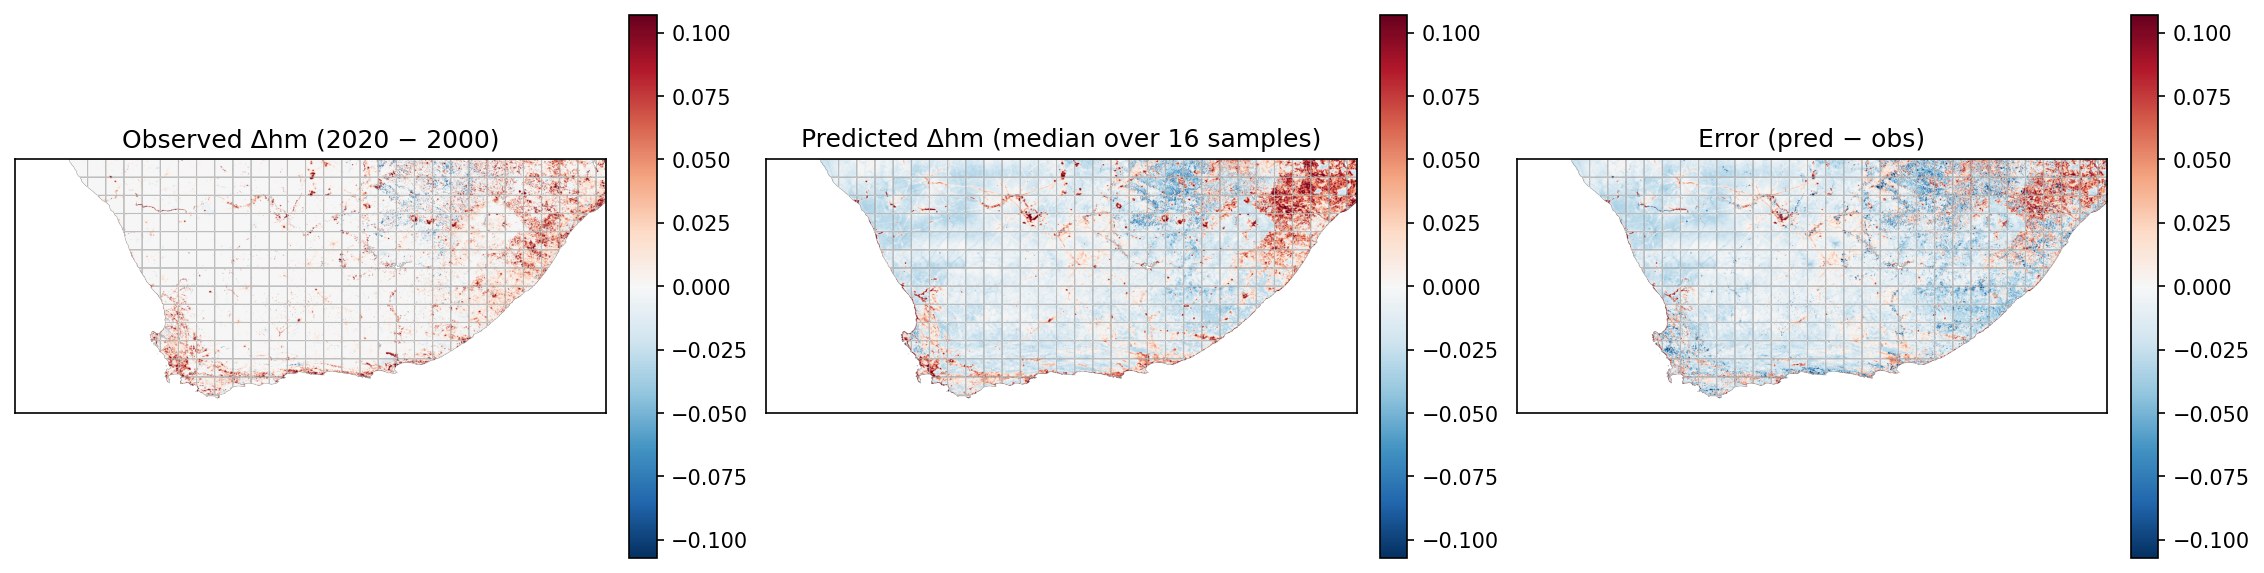
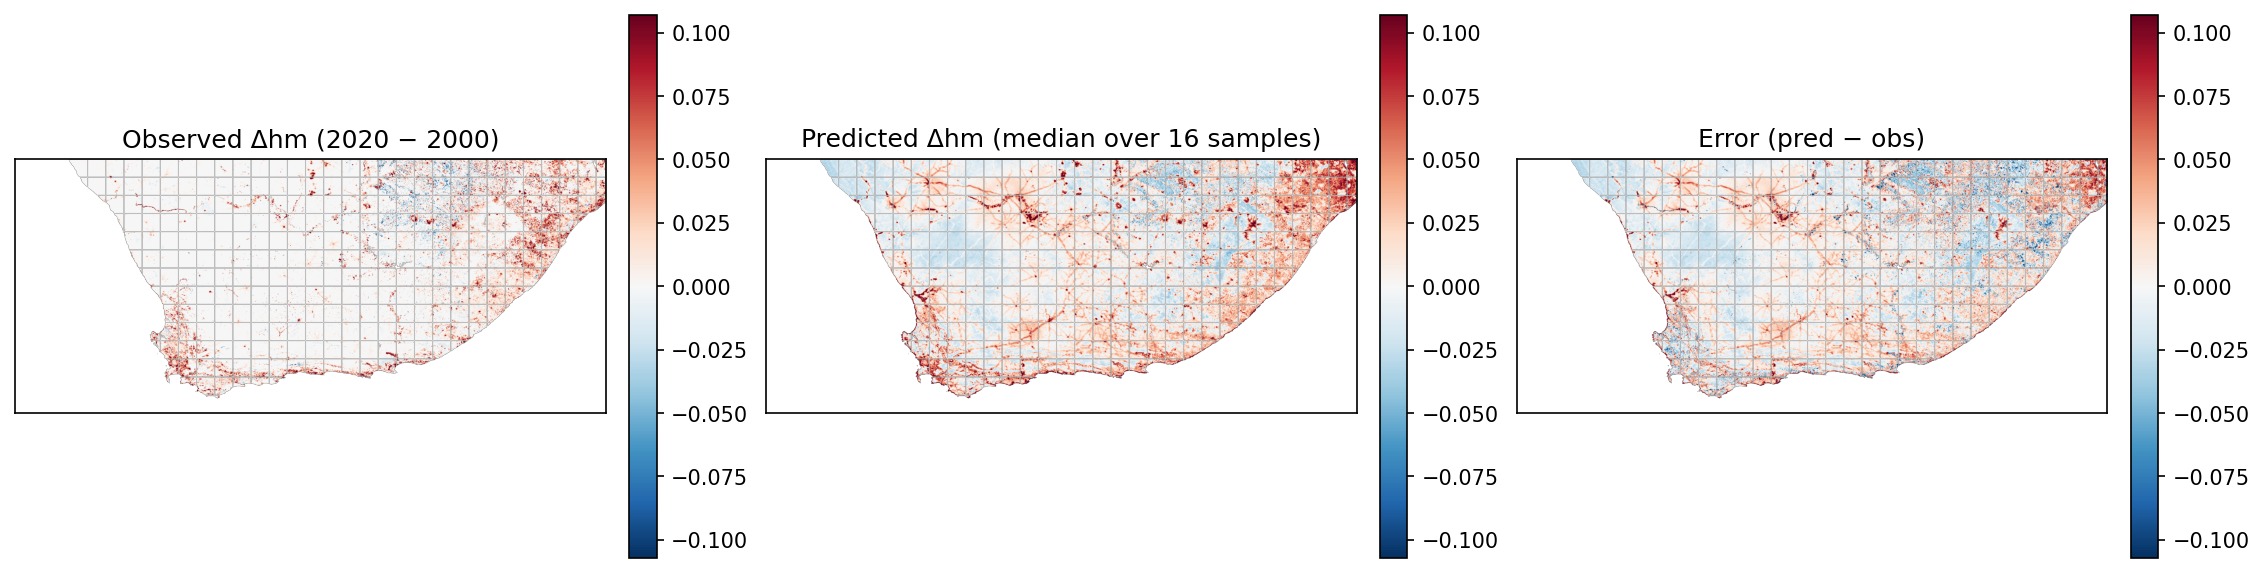
v27: zero-anchor + edge-match losses — halves negative bias, sharpens
Adds two new losses targeting user-reported failure modes in v26:

  _zero_anchor_loss: L2 anchor on pred at pixels where |target| ≤
    zero_anchor_threshold (default 0.005). Directly pushes the 'near-zero'
    bulk back toward 0 instead of -0.012 in v26.

  _edge_match_loss: L2 on ‖∇x0_pred − ∇target‖² per pixel. Enforces
    that predicted gradients match target gradients — fights the
    diffusion's natural tendency to produce smooth Gaussian-blob
    predictions where the truth has sharp localized peaks.

Trained v27 with v26 settings + zero_anchor=3.0 + edge_match=1.0 +
tv_loss_weight 1.0→0.3. Predicted at n=64, M=0.7.

                          v20      v26      v27
   pred mean            +0.006   -0.003   +0.009    near calibrated
   mod-neg share          5%     62.0%    31.3%     halved
   zero share           72.4%   14.2%    18.9%
   mod pos share        17.9%   16.5%    41.8%
   pred TV                0.008  (n/a)    0.0099    closer to obs 0.0078
   xinter_median        0.604   0.289    0.392     improved
   MAE median           0.0034  0.0130   0.0102    improved
   coverage rate        0.958   0.829    0.748
   Pearson r            0.738   0.678    0.598
   bin>0.1 cov          0.083   0.247    0.246
   bin>0.2 cov          0.007   0.061    0.055
   bin>0.4 cov          0.000   0.050    0.017
   POD@0.4              0.000   0.087    0.039
   pred_max             0.356   0.491    0.467
[…]

Changed region(s): [[0.371, 0.267, 0.6184, 0.6824], [0.7111, 0.267, 0.9276, 0.6824]]

diff --git a/src/models/diffusion_lightning.py b/src/models/diffusion_lightning.py
@@ -116,6 +116,9 @@ class DiffusionLightningModule(pl.LightningModule):
         hist_temperature: float = 0.01,
         tv_loss_weight: float = 0.0,
         tv_loss_target_floor: float = 0.05,
+        zero_anchor_loss_weight: float = 0.0,
+        zero_anchor_threshold: float = 0.005,
+        edge_match_loss_weight: float = 0.0,
     ):
         super().__init__()
         self.save_hyperparameters()
@@ -164,6 +167,9 @@ class DiffusionLightningModule(pl.LightningModule):
         self.hist_temperature = float(hist_temperature)
         self.tv_loss_weight = float(tv_loss_weight)
         self.tv_loss_target_floor = float(tv_loss_target_floor)
+        self.zero_anchor_loss_weight = float(zero_anchor_loss_weight)
+        self.zero_anchor_threshold = float(zero_anchor_threshold)
+        self.edge_match_loss_weight = float(edge_match_loss_weight)
 
         loc = _maybe_build_location_encoder(location_encoder_kwargs)
         if loc is None:
@@ -322,6 +328,44 @@ class DiffusionLightningModule(pl.LightningModule):
             sq = sq * snr_w
         denom = valid_f.sum().clamp(min=1.0)
         return (sq * w_pix * valid_f).sum() / denom
+
+    def _zero_anchor_loss(self, x0_pred, target_dhm, valid):
+        """L2 anchor on near-zero pixels — fights the bulk negative over-
+        prediction observed in v26 (62% of pixels predicted in [-0.05, -0.005)
+        while obs has only 5%). Wherever |target| ≤ zero_anchor_threshold the
+        prediction is pushed toward 0, breaking the model's tendency to use
+        slightly-negative noise as filler in the bulk region.
+        """
+        if self.zero_anchor_loss_weight <= 0:
+            return torch.zeros((), device=x0_pred.device)
+        near_zero = (target_dhm.abs() <= self.zero_anchor_threshold).float()
+        valid_f = valid.float()
+        mask = near_zero * valid_f
+        denom = mask.sum().clamp(min=1.0)
+        return (x0_pred.pow(2) * mask).sum() / denom
+
+    def _edge_match_loss(self, x0_pred, target_dhm, valid):
+        """L2 on the spatial gradient — fights the v26 smoothing issue.
+
+        The diffusion's natural Gaussian-like sampling produces spatially-
+        correlated blobs around hotspots; obs change is more concentrated.
+        Penalising ‖∇x_pred − ∇target‖² forces predicted gradients to match
+        target gradients pixel-by-pixel, encouraging sharp edges where the
+        truth has them and flat regions where it doesn't.
+        """
+        if self.edge_match_loss_weight <= 0:
+            return torch.zeros((), device=x0_pred.device)
+        dx_pred = x0_pred[..., 1:, :] - x0_pred[..., :-1, :]
+        dy_pred = x0_pred[..., :, 1:] - x0_pred[..., :, :-1]
+        dx_targ = target_dhm[..., 1:, :] - target_dhm[..., :-1, :]
+        dy_targ = target_dhm[..., :, 1:] - target_dhm[..., :, :-1]
+        vf = valid.float()
+        mx = vf[..., 1:, :] * vf[..., :-1, :]
+        my = vf[..., :, 1:] * vf[..., :, :-1]
+        n = (mx.sum() + my.sum()).clamp(min=1.0)
+        e_x = ((dx_pred - dx_targ).pow(2) * mx).sum()
+        e_y = ((dy_pred - dy_targ).pow(2) * my).sum()
+        return (e_x + e_y) / n
 
     def _tv_loss(self, x0_pred, target_dhm, valid):
         """Total Variation loss on predicted Δhm — addresses sample noisiness.
@@ -560,7 +604,9 @@ class DiffusionLightningModule(pl.LightningModule):
                    or self.wasserstein_loss_weight > 0
                    or self.tile_mean_loss_weight > 0
                    or self.hist_loss_weight > 0
-                   or self.tv_loss_weight > 0)
+                   or self.tv_loss_weight > 0
+                   or self.zero_anchor_loss_weight > 0
+                   or self.edge_match_loss_weight > 0)
         x0_pred = self._x0_pred_from_v(noisy, v_pred, t) if need_x0 else None
         # Pattern / Wasserstein losses must operate in *target space* (not
         # residual space) so their thresholds and histograms correspond to
@@ -597,6 +643,16 @@ class DiffusionLightningModule(pl.LightningModule):
             tv = self._tv_loss(x0_pred_full, target_for_loss, valid)
             total_loss = total_loss + self.tv_loss_weight * tv
             self.log(f"{log_prefix}/tv_loss", tv, on_step=True, on_epoch=True)
+
+        if self.zero_anchor_loss_weight > 0:
+            za = self._zero_anchor_loss(x0_pred_full, target_for_loss, valid)
+            total_loss = total_loss + self.zero_anchor_loss_weight * za
+            self.log(f"{log_prefix}/zero_anchor_loss", za, on_step=True, on_epoch=True)
+
+        if self.edge_match_loss_weight > 0:
+            em = self._edge_match_loss(x0_pred_full, target_for_loss, valid)
+            total_loss = total_loss + self.edge_match_loss_weight * em
+            self.log(f"{log_prefix}/edge_match_loss", em, on_step=True, on_epoch=True)
 
         self.log(f"{log_prefix}/loss", total_loss, prog_bar=True, on_step=True, on_epoch=True)
         return total_loss

diff --git a/scripts/train_diffusion.py b/scripts/train_diffusion.py
@@ -169,6 +169,18 @@ def parse_args():
                         "threshold, so the model can still produce sharp "
                         "high-magnitude features. 0.05 means smoothness "
                         "applies only where true Δhm is in [-0.05, +0.05].")
+    p.add_argument("--zero_anchor_loss_weight", type=float, default=0.0,
+                   help="L2 anchor on near-zero target pixels — fights the "
+                        "bulk negative over-prediction. Wherever |target| <= "
+                        "zero_anchor_threshold, pred is pushed toward 0. "
+                        "0=off; 1.0–5.0 typical.")
+    p.add_argument("--zero_anchor_threshold", type=float, default=0.005,
+                   help="Pixels with |target| <= this are treated as zero-mode "
+                        "for the zero-anchor loss.")
+    p.add_argument("--edge_match_loss_weight", type=float, default=0.0,
+                   help="L2 on spatial gradient mismatch — fights the smoothing "
+                        "issue by forcing predicted gradients to match target "
+                        "gradients. 0=off; 0.5–2.0 typical.")
 
     # Location encoder
     p.add_argument("--use_location_encoder", action="store_true", default=True)
@@ -302,6 +314,9 @@ def main():
         hist_temperature=args.hist_temperature,
         tv_loss_weight=args.tv_loss_weight,
         tv_loss_target_floor=args.tv_loss_target_floor,
+        zero_anchor_loss_weight=args.zero_anchor_loss_weight,
+        zero_anchor_threshold=args.zero_anchor_threshold,
+        edge_match_loss_weight=args.edge_match_loss_weight,
     )
     n_params = sum(p.numel() for p in module.parameters())
     print(f"  module param count: {n_params/1e6:.1f}M")

diff --git a/docs/diffusion_v1_results.md b/docs/diffusion_v1_results.md
@@ -7,7 +7,7 @@
 - Aggregate-tile size: **16×16** pixels (10 km blocks).
 - Histogram bins (rarity-weighted, matches baseline `histogram_loss.py`):
   `[-1.0, -0.005, 0.005, 0.02, 0.1, 0.2, 0.4, 0.6, 1.0]`.
-- W&B run: [glennwithtwons/spatio-temporal-diffusion/8i4lbs9l](https://wandb.ai/glennwithtwons/spatio-temporal-diffusion/8i4lbs9l)
+- W&B run: [glennwithtwons/spatio-temporal-diffusion/0xipies0](https://wandb.ai/glennwithtwons/spatio-temporal-diffusion/0xipies0)
 
 
 ## Iteration history (best-of-run on user-target metrics)
@@ -90,8 +90,8 @@ batches and the predict run slows from ~40 min to 2-3 h.
 
 ## Model & checkpoint
 
-- Checkpoint: `spatio-temporal-diffusion/8i4lbs9l/checkpoints/dhm-diffusion-epoch94-valloss0.7645.ckpt`
-- Stopping epoch: 94 (global step 1520)
+- Checkpoint: `spatio-temporal-diffusion/0xipies0/checkpoints/dhm-diffusion-epoch40-valloss1.1026.ckpt`
+- Stopping epoch: 40 (global step 656)
 - Architecture: `ConditionalDiffusionUNet` (`diffusers.UNet2DModel`)
   - sample_size = 64
   - base_channels = 128
@@ -111,13 +111,13 @@ batches and the predict run slows from ~40 min to 2-3 h.
 | Metric | Value |
 |---|---|
 | Tiles with valid coverage | 4,394 of 7,150 |
-| Tile-mean MAE (median) | **0.0130** |
-| Tile-mean MAE (mean) | 0.0152 |
-| Tile-mean MAE (95th %ile) | 0.0352 |
-| Histogram intersection (median) | **0.289** |
-| Histogram intersection (mean) | 0.325 |
-| Pearson r (predicted vs. observed tile-mean Δhm) | 0.678 |
-| Coverage rate (q025 ≤ obs ≤ q975), all bins | 0.829 (target ≈ 0.95) |
+| Tile-mean MAE (median) | **0.0102** |
+| Tile-mean MAE (mean) | 0.0137 |
+| Tile-mean MAE (95th %ile) | 0.0361 |
+| Histogram intersection (median) | **0.392** |
+| Histogram intersection (mean) | 0.396 |
+| Pearson r (predicted vs. observed tile-mean Δhm) | 0.598 |
+| Coverage rate (q025 ≤ obs ≤ q975), all bins | 0.748 (target ≈ 0.95) |
 
 ### Coverage stratified by Δhm change bin
 
@@ -128,13 +128,13 @@ ones where the model has to express genuine uncertainty.
 
 | Δhm bin | n pixels | Coverage |
 |---|---:|---:|
-| `[ -1.000, -0.005]` | 56,357 | 0.675 |
-| `[ -0.005, +0.005]` | 742,163 | 0.905 |
-| `[ +0.005, +0.020]` | 116,330 | 0.692 |
-| `[ +0.020, +0.100]` | 97,708 | 0.577 |
-| `[ +0.100, +0.200]` | 10,296 | 0.247 |
-| `[ +0.200, +0.400]` | 1,614 | 0.061 |
-| `[ +0.400, +0.600]` | 120 | 0.050 |
+| `[ -1.000, -0.005]` | 56,357 | 0.505 |
+| `[ -0.005, +0.005]` | 742,163 | 0.825 |
+| `[ +0.005, +0.020]` | 116,330 | 0.542 |
+| `[ +0.020, +0.100]` | 97,708 | 0.612 |
+| `[ +0.100, +0.200]` | 10,296 | 0.246 |
+| `[ +0.200, +0.400]` | 1,614 | 0.055 |
+| `[ +0.400, +0.600]` | 120 | 0.017 |
 | `[ +0.600, +1.000]` | 7 | 0.000 |
 
 ## Tail diagnostics
@@ -148,17 +148,17 @@ WassDiff (IEEE TGRS 2025), ExtremeCast (AAAI 2024), and the Aich et al. (GMD
 
 - Threshold: 0.0667
 - Observed tail mass: 1245.5662
-- Predicted tail mass: 941.0035
-- **Ratio (pred / obs):** **0.755** (<<1 = under-predicting tail; ~1 = calibrated; >1 = over)
+- Predicted tail mass: 1133.2766
+- **Ratio (pred / obs):** **0.910** (<<1 = under-predicting tail; ~1 = calibrated; >1 = over)
 
 ### Tail exceedance (deterministic + q975 ensemble support)
 
 | Threshold | n(obs>t) | n(pred>t) | POD | CSI | FAR | q975 soft-POD |
 |---|---|---|---|---|---|---|
-| +0.050 |     42,889 |     60,826 | 0.364 | 0.177 | 0.743 | 0.799 |
-| +0.100 |     12,037 |      9,955 | 0.160 | 0.096 | 0.806 | 0.500 |
-| +0.200 |      1,741 |        299 | 0.071 | 0.065 | 0.585 | 0.183 |
-| +0.400 |        127 |         15 | 0.087 | 0.084 | 0.267 | 0.110 |
+| +0.050 |     42,889 |     78,933 | 0.368 | 0.149 | 0.800 | 0.899 |
+| +0.100 |     12,037 |     11,363 | 0.151 | 0.084 | 0.840 | 0.523 |
+| +0.200 |      1,741 |        719 | 0.064 | 0.048 | 0.844 | 0.160 |
+| +0.400 |        127 |          7 | 0.039 | 0.039 | 0.286 | 0.079 |
 
 ![Q-Q max-of-field](../outputs/diffusion_v1/qq_max_of_field.png)
 
